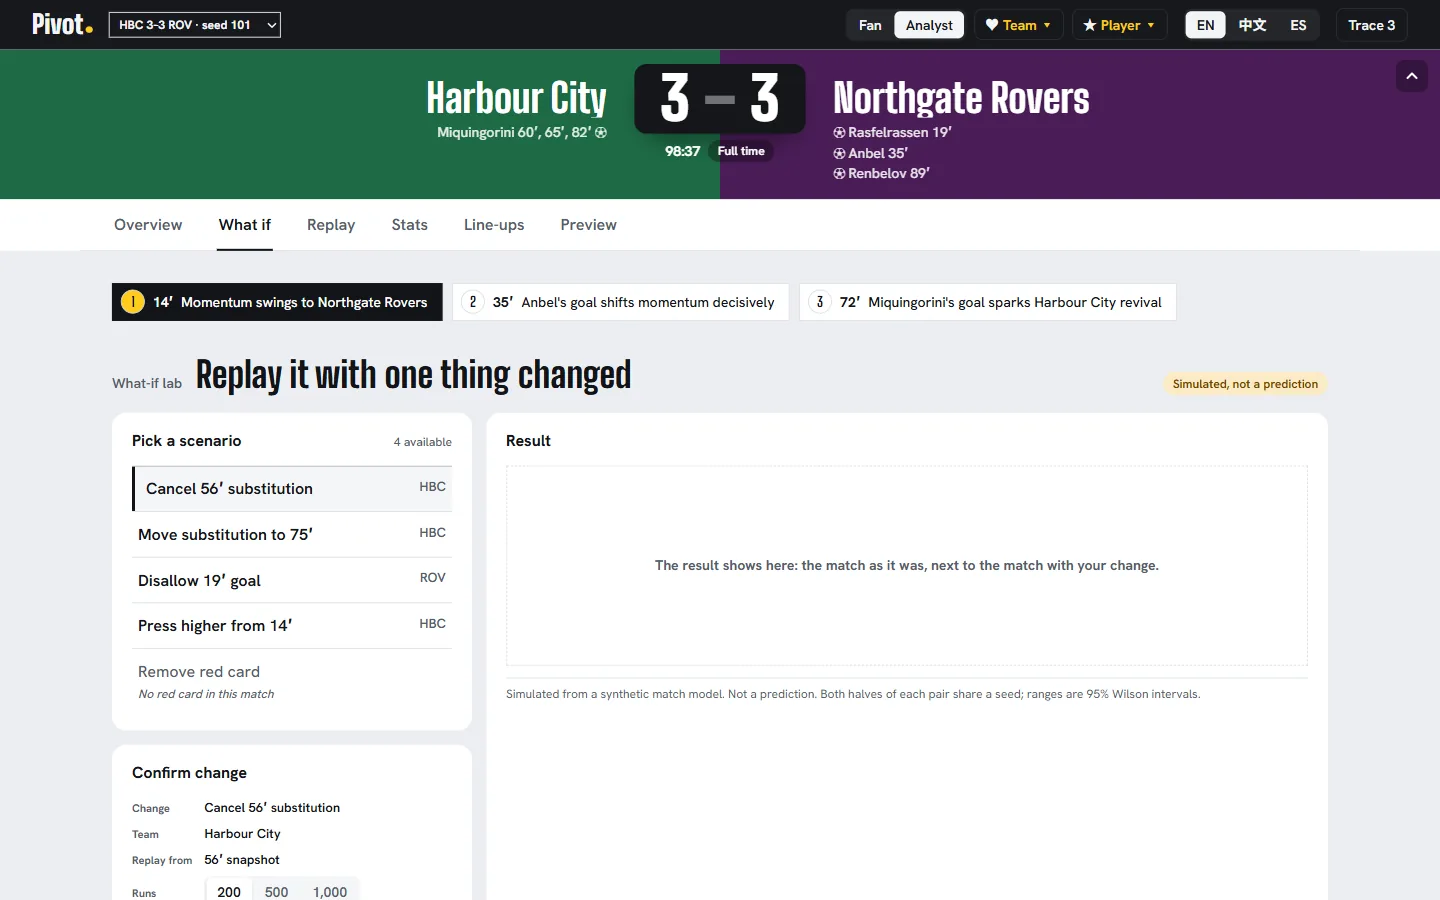
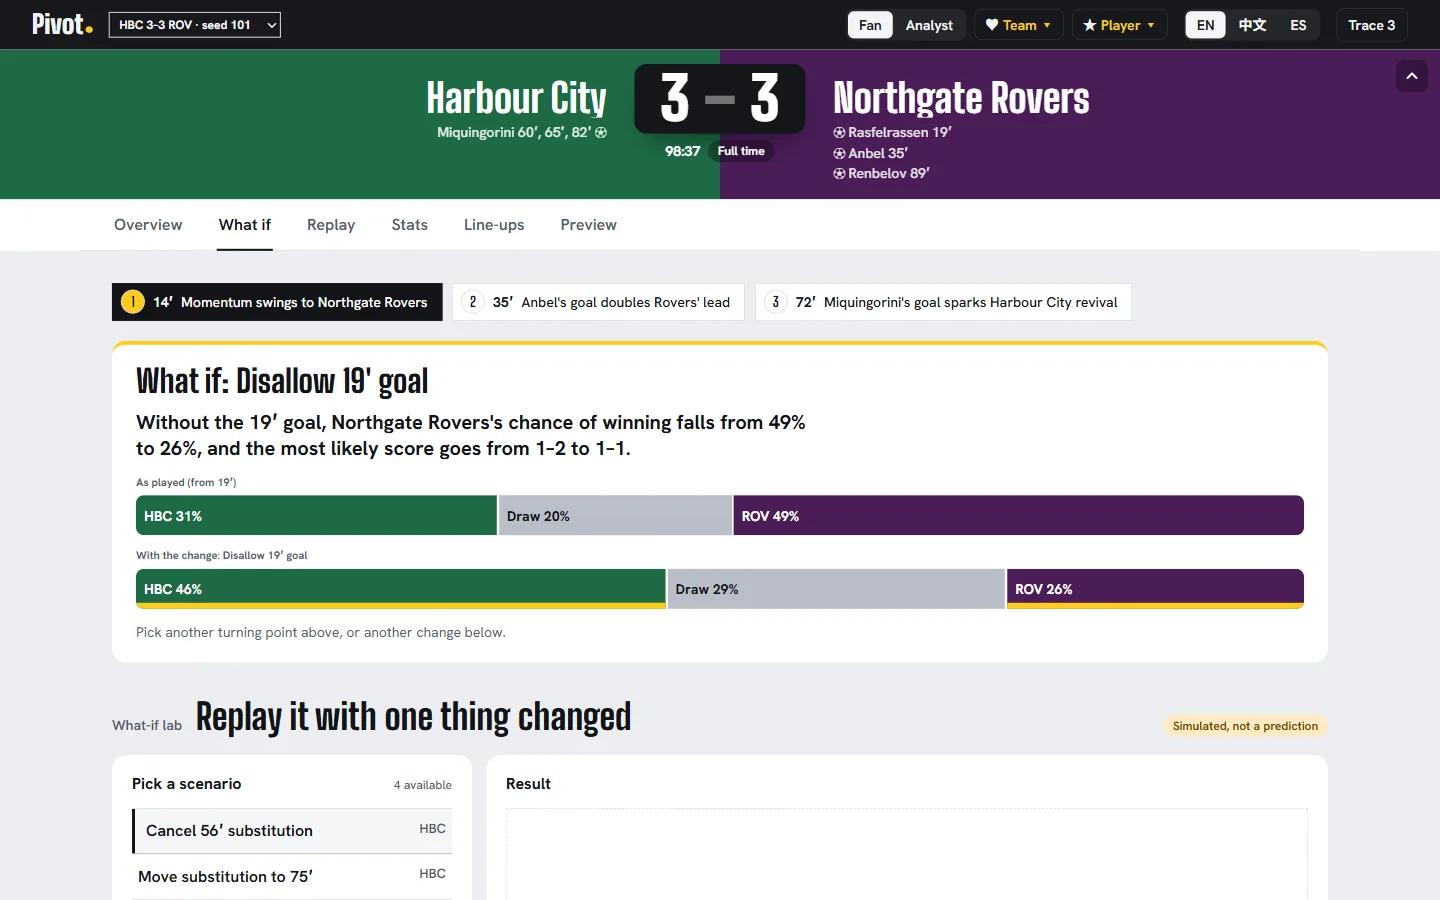
C13: the what-if tab opens on one change already played out (#316)
Above the lab, the most striking change of the open turning point (a goal or a red card taken
away first; with a ♥ team, what would have helped it) runs at once and shows the sentence and
the two big bars. A result run ahead answers instantly; otherwise the usual progress shows.
The stats legend says "your team" next to the ♥ team.

diff --git a/apps/web/src/pages/match/WhatIfTab.tsx b/apps/web/src/pages/match/WhatIfTab.tsx
@@ -1,10 +1,14 @@
 // 假如 · What-if (C13 #316): the lab gets a tab of its own. Pick a turning point here, then a change
 // in the lab; the first turning point is open when the link names none (`&pivot=`). Each chip names
 // its turning point, so the lab's own back link is not needed here.
+import { useEffect, useState } from "react";
 import type { Pivot1 as Pivot } from "@pivot/contracts";
+import { Distribution, RunProgress, storyLine } from "../../components/WhatIf";
 import { pivotHeadline } from "../../components/PivotList";
 import { useClock } from "../../data/clock";
 import { useMatch } from "../../data/match";
+import { forYourTeam, usePersona } from "../../data/persona";
+import { optionLabel, useOptionMinute, useScenarioRun, type ScenarioApi, type ScenarioOption } from "../../data/scenarios";
 import { useT } from "../../i18n";
 import { Lab, useScenarioSource } from "../WhatIfLab";
 
@@ -29,9 +33,63 @@ export function WhatIfTab({ moments, open, onPick }: { moments: Pivot[]; open: P
           ))}
         </div>
       )}
+      <Featured key={`f-${pivot.pivot_id}`} pivot={pivot} source={source} />
       <div className="wi-tab">
         <Lab key={pivot.pivot_id} pivotId={pivot.pivot_id} source={source} />
       </div>
     </>
+  );
+}
+
+/** The most striking change first: a goal or a red card taken away, then a substitution, then the press. */
+const STRIKING: ScenarioOption["type"][] = ["remove_goal", "remove_red_card", "cancel_substitution", "move_substitution", "change_press"];
+
+/**
+ * The tab's first screen (C13): one change already played out, the sentence and the two big bars,
+ * before the viewer picks anything. With a ♥ team it is the change that would have helped that team.
+ * A result run ahead (Bx14) answers at once; otherwise the usual progress shows while it runs.
+ */
+function Featured({ pivot, source }: { pivot: Pivot; source: ScenarioApi }) {
+  const { teams } = useMatch();
+  const t = useT();
+  const { side } = usePersona();
+  const minuteOf = useOptionMinute();
+  const [option, setOption] = useState<ScenarioOption | null>(null);
+  const { state, run } = useScenarioRun(source);
+  useEffect(() => {
+    let alive = true;
+    source.options(pivot.pivot_id).then((opts) => {
+      const on = opts.filter((o) => o.enabled);
+      const rank = (o: ScenarioOption) => (STRIKING.indexOf(o.type) + STRIKING.length + 1) % (STRIKING.length + 1);
+      const o = (side ? forYourTeam(on, side) : [...on].sort((a, b) => rank(a) - rank(b)))[0];
+      if (!alive || !o) return;
+      setOption(o);
+      run({ pivot_id: pivot.pivot_id, type: o.type, n_runs: 200, ...(Object.keys(o.params).length ? { params: o.params } : {}) });
+    }, () => {});
+    return () => {
+      alive = false;
+    };
+  }, [source, pivot.pivot_id, side]);
+  if (!option || state.phase === "failed" || state.phase === "idle") return null;
+  const change = optionLabel(option, t, undefined, minuteOf(option));
+  return (
+    <section className="wi-feature" aria-labelledby="wi-feature-hd" aria-live="polite">
+      <h2 id="wi-feature-hd">{t("wi.feature", { change })}</h2>
+      {state.phase === "done" ? (
+        <>
+          <p className="wi-feature-line">
+            {storyLine({ result: state.scenario.result, type: option.type, minute: minuteOf(option), change,
+              pressLower: /lower/i.test(option.label), teams }, t)}
+          </p>
+          <div className="dists">
+            <Distribution label={t("whatif.asPlayed", { minute: minuteOf(option) ?? "" })} dist={state.scenario.result.baseline} teams={teams} />
+            <Distribution label={t("whatif.changed", { change })} dist={state.scenario.result.counterfactual} teams={teams} significant={state.scenario.result.significant} />
+          </div>
+          <p className="muted wi-feature-more">{t("wi.featureMore")}</p>
+        </>
+      ) : (
+        <RunProgress scenario={state.phase === "running" ? state.scenario : null} />
+      )}
+    </section>
   );
 }

diff --git a/apps/web/src/styles/base.css b/apps/web/src/styles/base.css
@@ -693,6 +693,7 @@ details.more > summary small { font-weight: 600; text-transform: none; color: va
 .ts-teams span { display: inline-flex; align-items: center; gap: 6px; }
 .ts-teams span::before { content: ""; width: 10px; height: 10px; border-radius: 3px; background: var(--tc); }
 .ts-teams .fav::after { content: "♥"; color: var(--tc); }
+.ts-teams small { font-weight: 600; color: var(--tc); }
 .ts-groups { display: grid; grid-template-columns: repeat(auto-fit, minmax(340px, 1fr)); gap: 20px 48px; align-items: start; }
 .ts-table { width: 100%; border-collapse: collapse; font-variant-numeric: tabular-nums; }
 .ts-table caption { text-align: left; font-weight: 700; font-size: var(--pv-fs-md); padding-bottom: 6px; }
@@ -783,6 +784,12 @@ details.more > summary small { font-weight: 600; text-transform: none; color: va
 .wi-pivots .chip .badge { width: 24px; height: 24px; font-size: 14px; flex: none; }
 .wi-pivots .chip .wi-hd { font-weight: 500; white-space: nowrap; overflow: hidden; text-overflow: ellipsis; min-width: 0; }
 .wi-pivots .chip[aria-pressed="true"] .badge { background: var(--pv-gold); color: var(--pv-on-gold); }
+.wi-feature { background: var(--pv-sheet); border-radius: var(--pv-r-panel); padding: 20px 24px; display: grid; gap: 12px; border-top: 4px solid var(--pv-gold); }
+.wi-feature h2 { font-family: var(--pv-display); font-weight: 800; font-size: 32px; line-height: 1; }
+.wi-feature-line { font-weight: 700; font-size: 20px; line-height: 1.35; max-width: 60ch; }
+.wi-feature .dist .ci { display: none; }
+.wi-feature-more { font-size: 14px; }
+:lang(zh) .wi-feature h2 { font-family: var(--pv-body); font-weight: 700; font-size: 26px; }
 .wi-tab .back, .wi-tab .headline, .wi-tab .grid3 { padding-inline: 0; }
 .wi-tab .back { display: none; }
 

diff --git a/apps/web/src/i18n/messages/zh.ts b/apps/web/src/i18n/messages/zh.ts
@@ -224,6 +224,9 @@ export const zh: Messages = {
   "stats.fan.xg": "机会有多好",
   "stats.fan.pressures": "上抢次数",
   "stats.fan.finalThirdPasses": "打到危险区域的球",
+  "wi.feature": "假如：{change}",
+  "wi.featureMore": "可以在上面换一个转折点，或者在下面换一个改动。",
+  "ts.yours": "你的球队",
   "ts.title": "球队数据",
   "ts.note": "和 AI 解释里引用、核对员核对的是同一套数字。",
   "ts.scope": "比赛的哪一段",

diff --git a/apps/web/src/i18n/messages/es.ts b/apps/web/src/i18n/messages/es.ts
@@ -225,6 +225,9 @@ export const es: Messages = {
   "stats.fan.xg": "Calidad de las ocasiones",
   "stats.fan.pressures": "Presión al rival",
   "stats.fan.finalThirdPasses": "Balones a zona de peligro",
+  "wi.feature": "Y si: {change}",
+  "wi.featureMore": "Elige otro punto de giro arriba, u otro cambio abajo.",
+  "ts.yours": "tu equipo",
   "ts.title": "Estadísticas de equipo",
   "ts.note": "Las mismas cifras que cita la IA y comprueba el verificador.",
   "ts.scope": "Parte del partido",

diff --git a/apps/web/src/i18n/messages/en.ts b/apps/web/src/i18n/messages/en.ts
@@ -224,6 +224,9 @@ export const en = {
   "stats.fan.xg": "How good the chances were",
   "stats.fan.pressures": "Closing down",
   "stats.fan.finalThirdPasses": "Balls into the danger zone",
+  "wi.feature": "What if: {change}",
+  "wi.featureMore": "Pick another turning point above, or another change below.",
+  "ts.yours": "your team",
   "ts.title": "Team stats",
   "ts.note": "The same numbers the AI cites and the checker verifies.",
   "ts.scope": "Part of the match",

diff --git a/apps/web/src/components/TeamStats.tsx b/apps/web/src/components/TeamStats.tsx
@@ -82,6 +82,7 @@ export default function TeamStats({ state }: { state: VizState<TeamStatsReport> 
         {(["home", "away"] as const).map((side) => (
           <span key={side} className={prefs.focus_team === side ? "fav" : undefined} style={{ "--tc": `var(--pv-${side})` } as CSSProperties}>
             {teams[side].name}
+            {prefs.focus_team === side && <small>{t("ts.yours")}</small>}
           </span>
         ))}
       </p>
